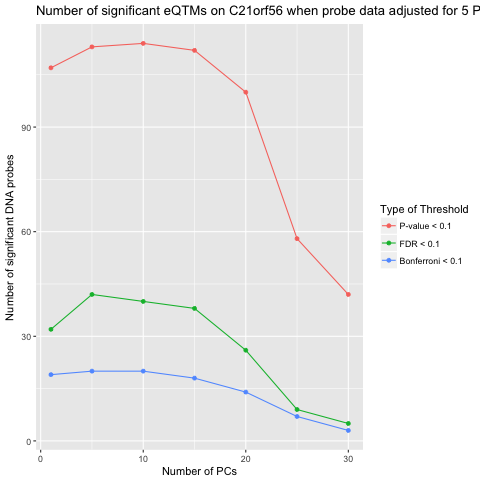
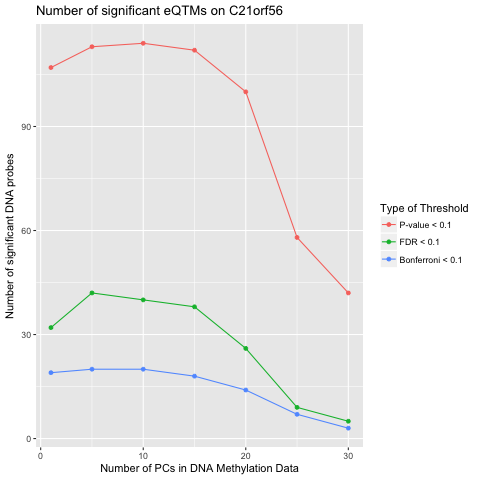
kk

diff --git a/README.md b/README.md
@@ -53,7 +53,7 @@ We use a combination of two publicly available datasets, [ROSMAP](https://drive.
 
 [**Step 2: Single Probe Analysis**](https://github.com/STAT540-UBC/Repo_team_Gene_Heroes/blob/master/Step-2-Single%20Probe%20Analysis/Step-2.md): After data processing from the [ROSMAP](https://drive.google.com/file/d/1Ieze9KwSy5UL9c6Vt5uFF9ta4U9kvkoe/) data, the PCA is used to adjust for any hidden confounders that could exist in our data sets (in both gene expression and DNA methylation). To choose the number of PCs adjusted for both gene expression data and DNA methylation probe data, we plotted the [heatmap](https://github.com/STAT540-UBC/Repo_team_Gene_Heroes/blob/master/Step-2-Single%20Probe%20Analysis/Step-2_files/prop_of_genes_sig_on_50_genes_V4_fdr.png) on the proportion of genes that have at least one significant probe with FDR < 0.1 based on number of PCs adjusted for both data sets. Note that the heatmap is based on 50 genes. For exploration, we also plotted the percentage of cumulative variance that additional PCs are adjusted for in both [gene expression data](https://github.com/STAT540-UBC/Repo_team_Gene_Heroes/blob/master/Step-2-Single%20Probe%20Analysis/Step-2_files/cum_var_explained_50_V4_gdata.png) and [DNA methylation data](https://github.com/STAT540-UBC/Repo_team_Gene_Heroes/blob/master/Step-2-Single%20Probe%20Analysis/Step-2_files/cum_var_explained_50_V4_probe.png). The optimal number of PCs adjusted will be the highest number of significant values based on the heatmap. 
 
-As a [result](https://drive.google.com/open?id=1u7J2reJVtPl2IVVytpTqWqJm-76lu0OY), we concluded that the optimal DNA methylation probe data set should be adjusted for five PCs and gene expression data set is adjusted for 30 PCs. 
+As a [result](https://drive.google.com/open?id=1u7J2reJVtPl2IVVytpTqWqJm-76lu0OY), we concluded that the optimal DNA methylation probe data set should be adjusted for five PCs and gene expression data set is adjusted for 30 PCs. To observe [the effects of adjusting for number of PCs in the gene expression data](https://github.com/STAT540-UBC/Repo_team_Gene_Heroes/blob/master/Step-2-Single%20Probe%20Analysis/Step-2_files/gene_C21orf56_probes.png), we took a look at a gene that show the most number of significant probes. Similarly, [the effects of adjusting for number of PCs in DNA methylation data](https://github.com/STAT540-UBC/Repo_team_Gene_Heroes/blob/master/Step-2-Single%20Probe%20Analysis/Step-2_files/gene_C21orf56_gdata.png) are explored in the same gene.  
 
 
 **Step 3: Multiple Probe Analysis**:
